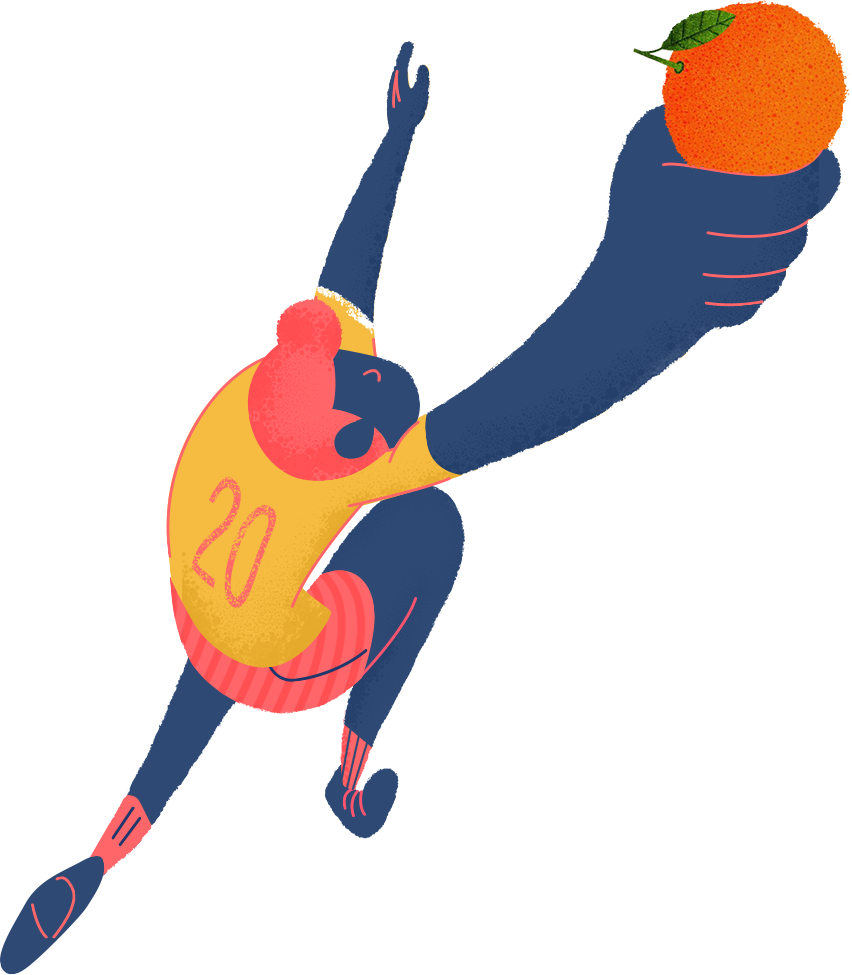
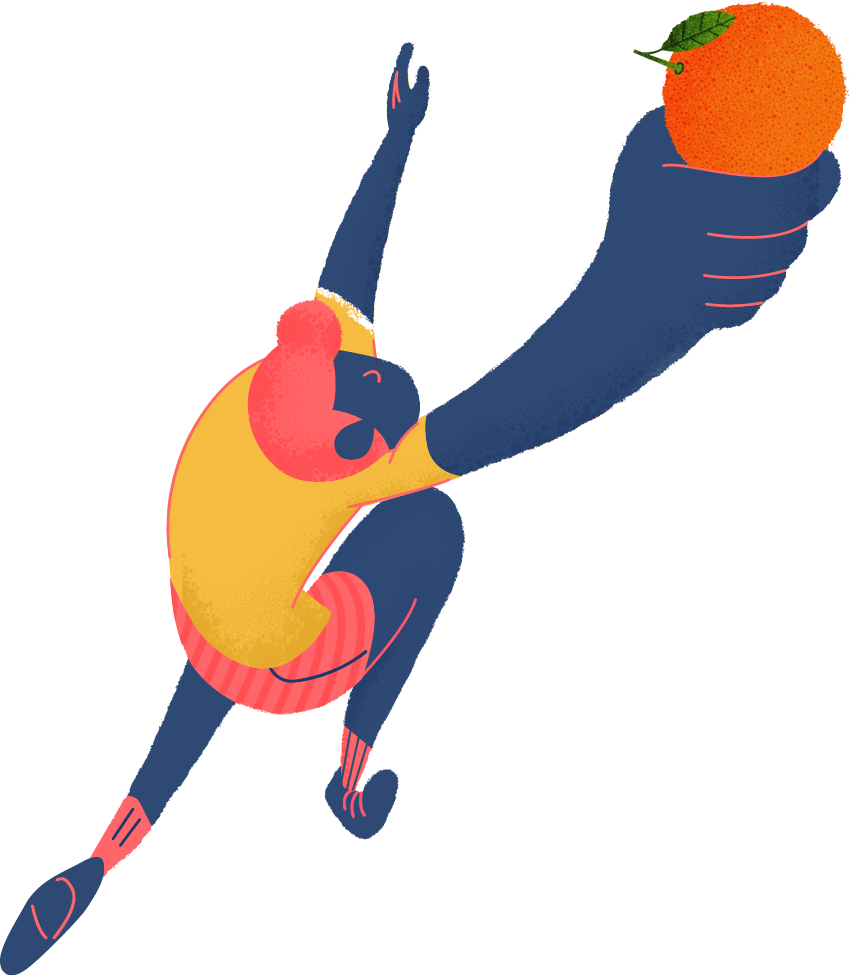
移除插畫背號

diff --git a/src/components/Choice.vue b/src/components/Choice.vue
@@ -30,6 +30,10 @@ export default {
       this.$parent.chooseOption(index);
     },
     changePage(leavePage, enterPage) {
+      if (this.isSelected == null) {
+        alert('請選擇你想要的 M+0 賣皂種類');
+        return false;
+      }
       this.$parent.changePage(leavePage, enterPage);
     },
     isDisabled() {

diff --git a/src/App.vue b/src/App.vue
@@ -436,8 +436,8 @@ input, select {
   }
   &.disabled {
     // opacity: 0.7;
-    background-color: #c7c7c7;
-    pointer-events: none;
+    // background-color: #ff7489;
+    // pointer-events: none;
   }
 }
 
